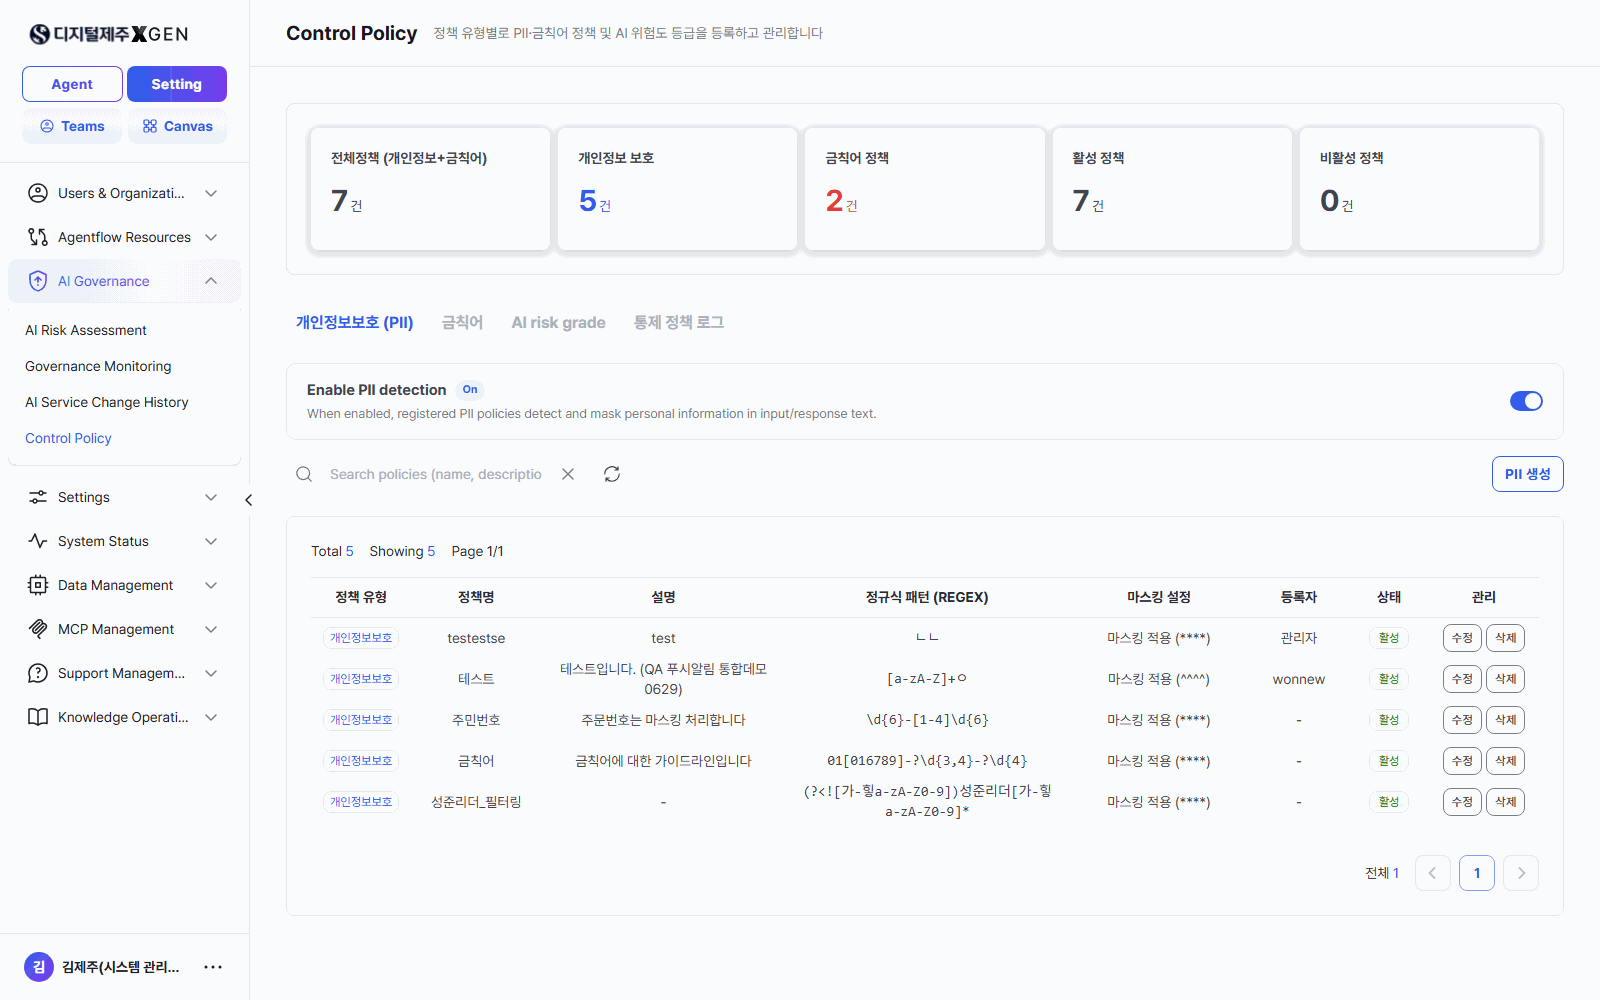
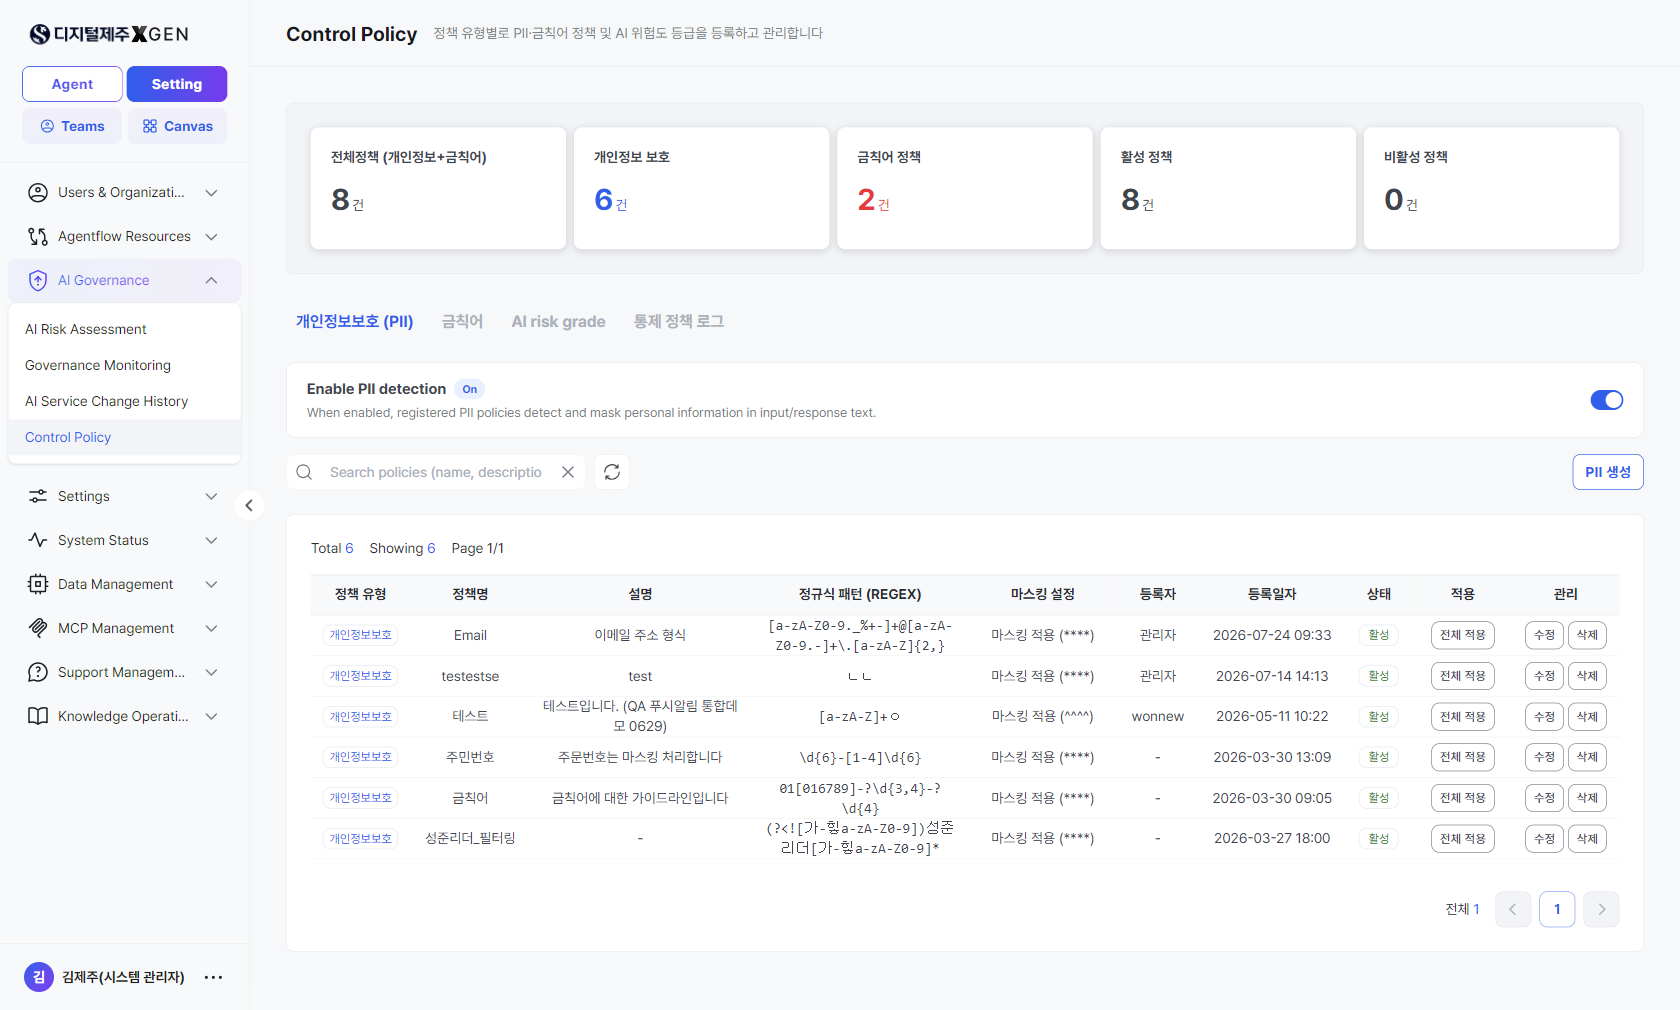
docs(control-policy): update jeju screenshot + align labels to live (적용/전체 적용)
Verified on jeju live (jeju-xgen.x2bee.com): the 적용 column + 전체 적용 button
ARE present (my earlier check searched wrong terms and missed them). Feature is
jeju-only (not on stg standard).

- Replace jeju overlay images (KO + EN) with fresh captures showing the 적용 column.
- Align the jeju-only section labels to the actual live UI: 적용 / 전체 적용
  (not the proposed 적용 대상 / 대상 지정). EN uses KO label + gloss per existing
  convention: 적용 (Apply) / 전체 적용 (Apply to All). Admin table is not EN-translated.

diff --git a/Xgen_Manual/base/admin/25-pii-policy.md b/Xgen_Manual/base/admin/25-pii-policy.md
@@ -62,14 +62,14 @@ require_view: gov-control-policy
 각 행 우측 **수정 / 삭제** 버튼으로 개별 정책을 편집·제거합니다. **상태** 열의 활성/비활성은 정책 단위 토글입니다.
 
 {% if customer.id == 'jeju-bank' %}
-## 정책별 적용 대상 관리 { #policy-scope }
+## 정책별 에이전트 적용 관리 { #policy-scope }
 
-정책 목록의 **적용 대상** 열에서 **각 정책을 어떤 에이전트에 적용할지** 정책 단위로 관리합니다. 정책이 등록·활성화되어 있어도, 적용 대상으로 지정된 에이전트에서만 실제로 동작합니다.
+정책 목록의 **적용** 열에서 **각 정책을 어떤 에이전트에 적용할지** 정책 단위로 관리합니다. 정책이 등록·활성화되어 있어도, 적용 대상으로 지정된 에이전트에서만 실제로 동작합니다.
 
-- **적용 대상** 열 — 해당 정책이 현재 적용되는 범위를 표시합니다.
-- **대상 지정** 버튼 — 이 정책을 적용할 대상 에이전트를 선택합니다.
+- **적용** 열 — 해당 정책이 현재 적용되는 범위를 표시합니다.
+- **전체 적용** 버튼 — 이 정책을 적용할 대상 에이전트를 지정합니다.
 
-**상태**(활성/비활성)가 *정책 자체의 사용 여부* 라면, **적용 대상**은 *그 정책이 어느 에이전트에 걸리는지 범위* 를 정하는 설정입니다. 예를 들어 주민등록번호 마스킹 정책을 특정 대고객 서비스 에이전트에만 적용하고 싶을 때 사용합니다.
+**상태**(활성/비활성)가 *정책 자체의 사용 여부* 라면, **적용**은 *그 정책이 어느 에이전트에 걸리는지 범위* 를 정하는 설정입니다. 예를 들어 주민등록번호 마스킹 정책을 특정 대고객 서비스 에이전트에만 적용하고 싶을 때 사용합니다.
 {% endif %}
 
 ## 사용자 정의 정책 추가

diff --git a/Xgen_Manual/base/admin/25-pii-policy.en.md b/Xgen_Manual/base/admin/25-pii-policy.en.md
@@ -62,14 +62,14 @@ The table shows 6 rows per page, 7 pages in total. Use the **Search** input abov
 Each row has **Edit / Delete** buttons; the **Status** column toggles a single policy active or inactive.
 
 {% if customer.id == 'jeju-bank' %}
-## Application Target per Policy { #policy-scope }
+## Per-Policy Agent Application { #policy-scope }
 
-The **Application Target** column lets you manage, per policy, **which agents each policy applies to**. Even when a policy is registered and active, it only takes effect on the agents designated as its application targets.
+The **적용 (Apply)** column lets you manage, per policy, **which agents each policy applies to**. Even when a policy is registered and active, it only takes effect on the agents it is applied to.
 
-- **Application Target** column — shows the current scope the policy applies to.
-- **Assign Targets** button — selects the target agents this policy applies to.
+- **적용 (Apply)** column — shows the current scope the policy applies to.
+- **전체 적용 (Apply to All)** button — designates the target agents this policy applies to.
 
-Where **Status** (active/inactive) governs *whether the policy itself is in use*, **Application Target** determines *which agents the policy is scoped to*. Use it, for example, to apply a resident-registration-number masking policy only to a specific customer-facing agent.
+Where **Status** (active/inactive) governs *whether the policy itself is in use*, **적용 (Apply)** determines *which agents the policy is scoped to*. Use it, for example, to apply a resident-registration-number masking policy only to a specific customer-facing agent.
 {% endif %}
 
 ## Adding Custom Policies
